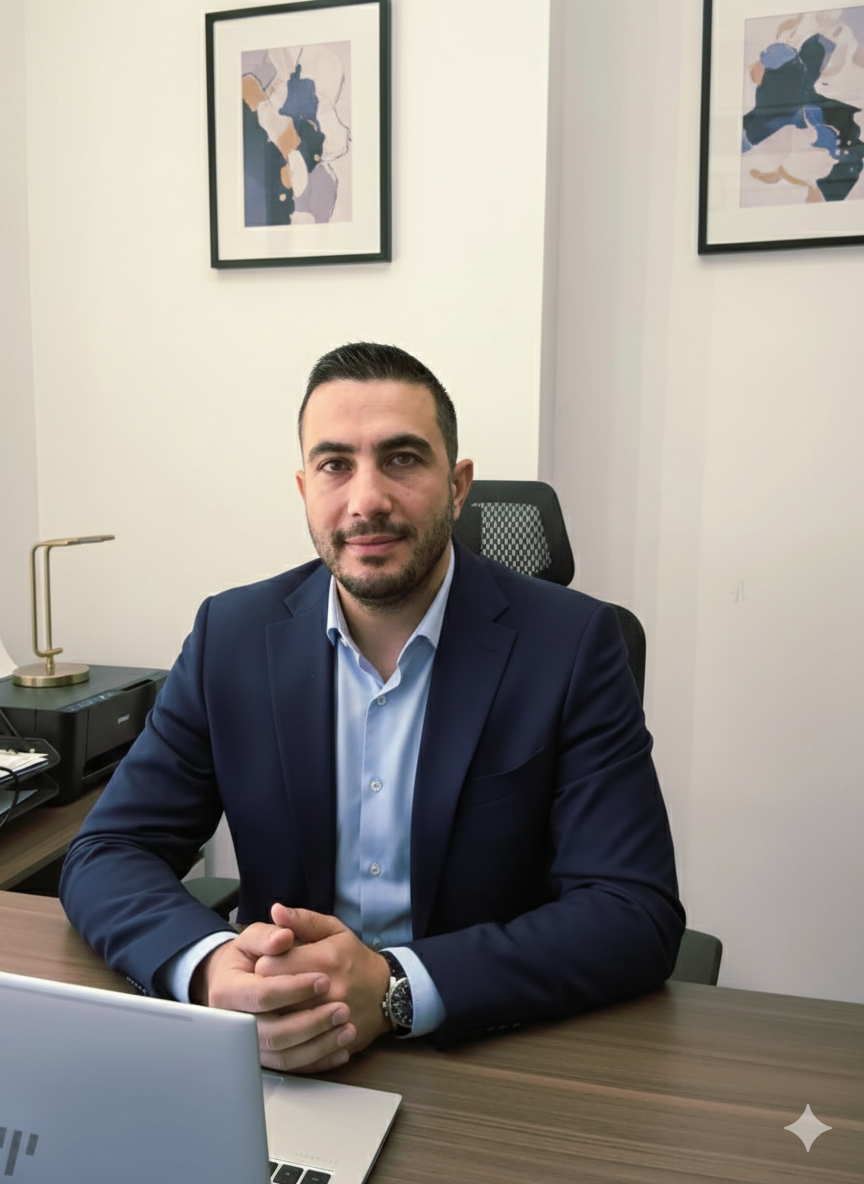
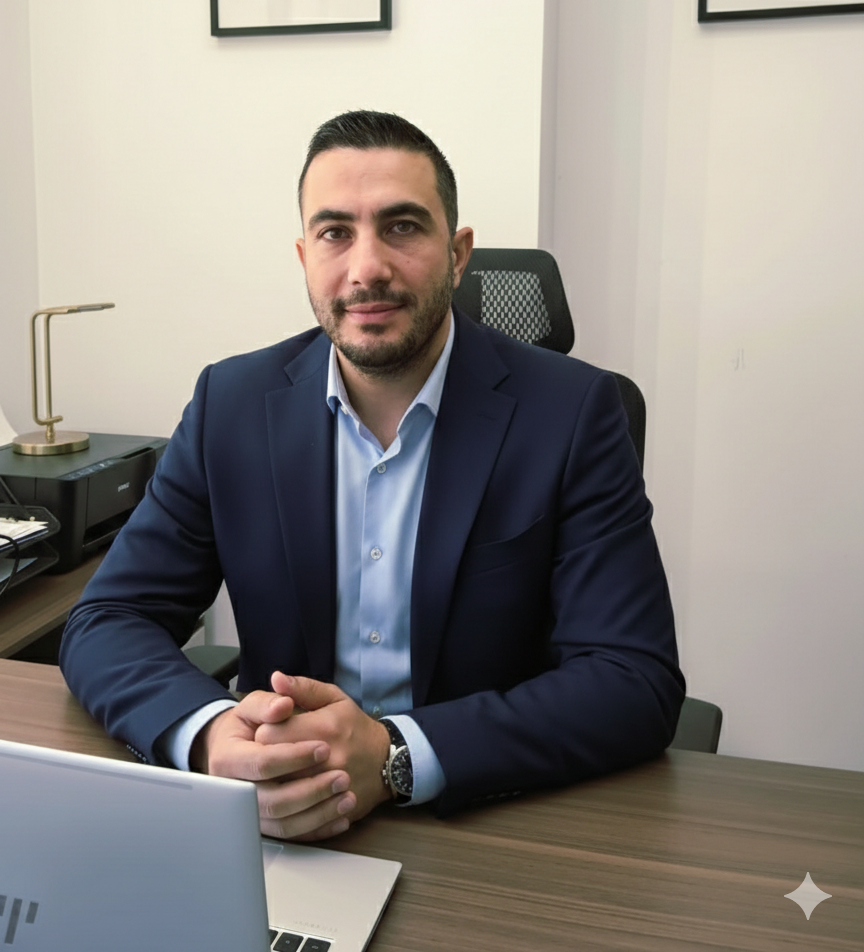
add ceo again

diff --git a/src/pages/AboutPage.jsx b/src/pages/AboutPage.jsx
@@ -211,7 +211,7 @@ of expert consultants and service providers, ensuring efficiency, compliance, an
           <div className="team-grid">
                <div className="team-card">
               <div className="team-image">
-                <img src="../images/Slei.png" alt="Team Member" />
+                <img src="../images/sl.png" alt="Team Member" />
               </div>
               <div className="team-info">
                 <h3>Sleiman Kasem Mhanna</h3>
